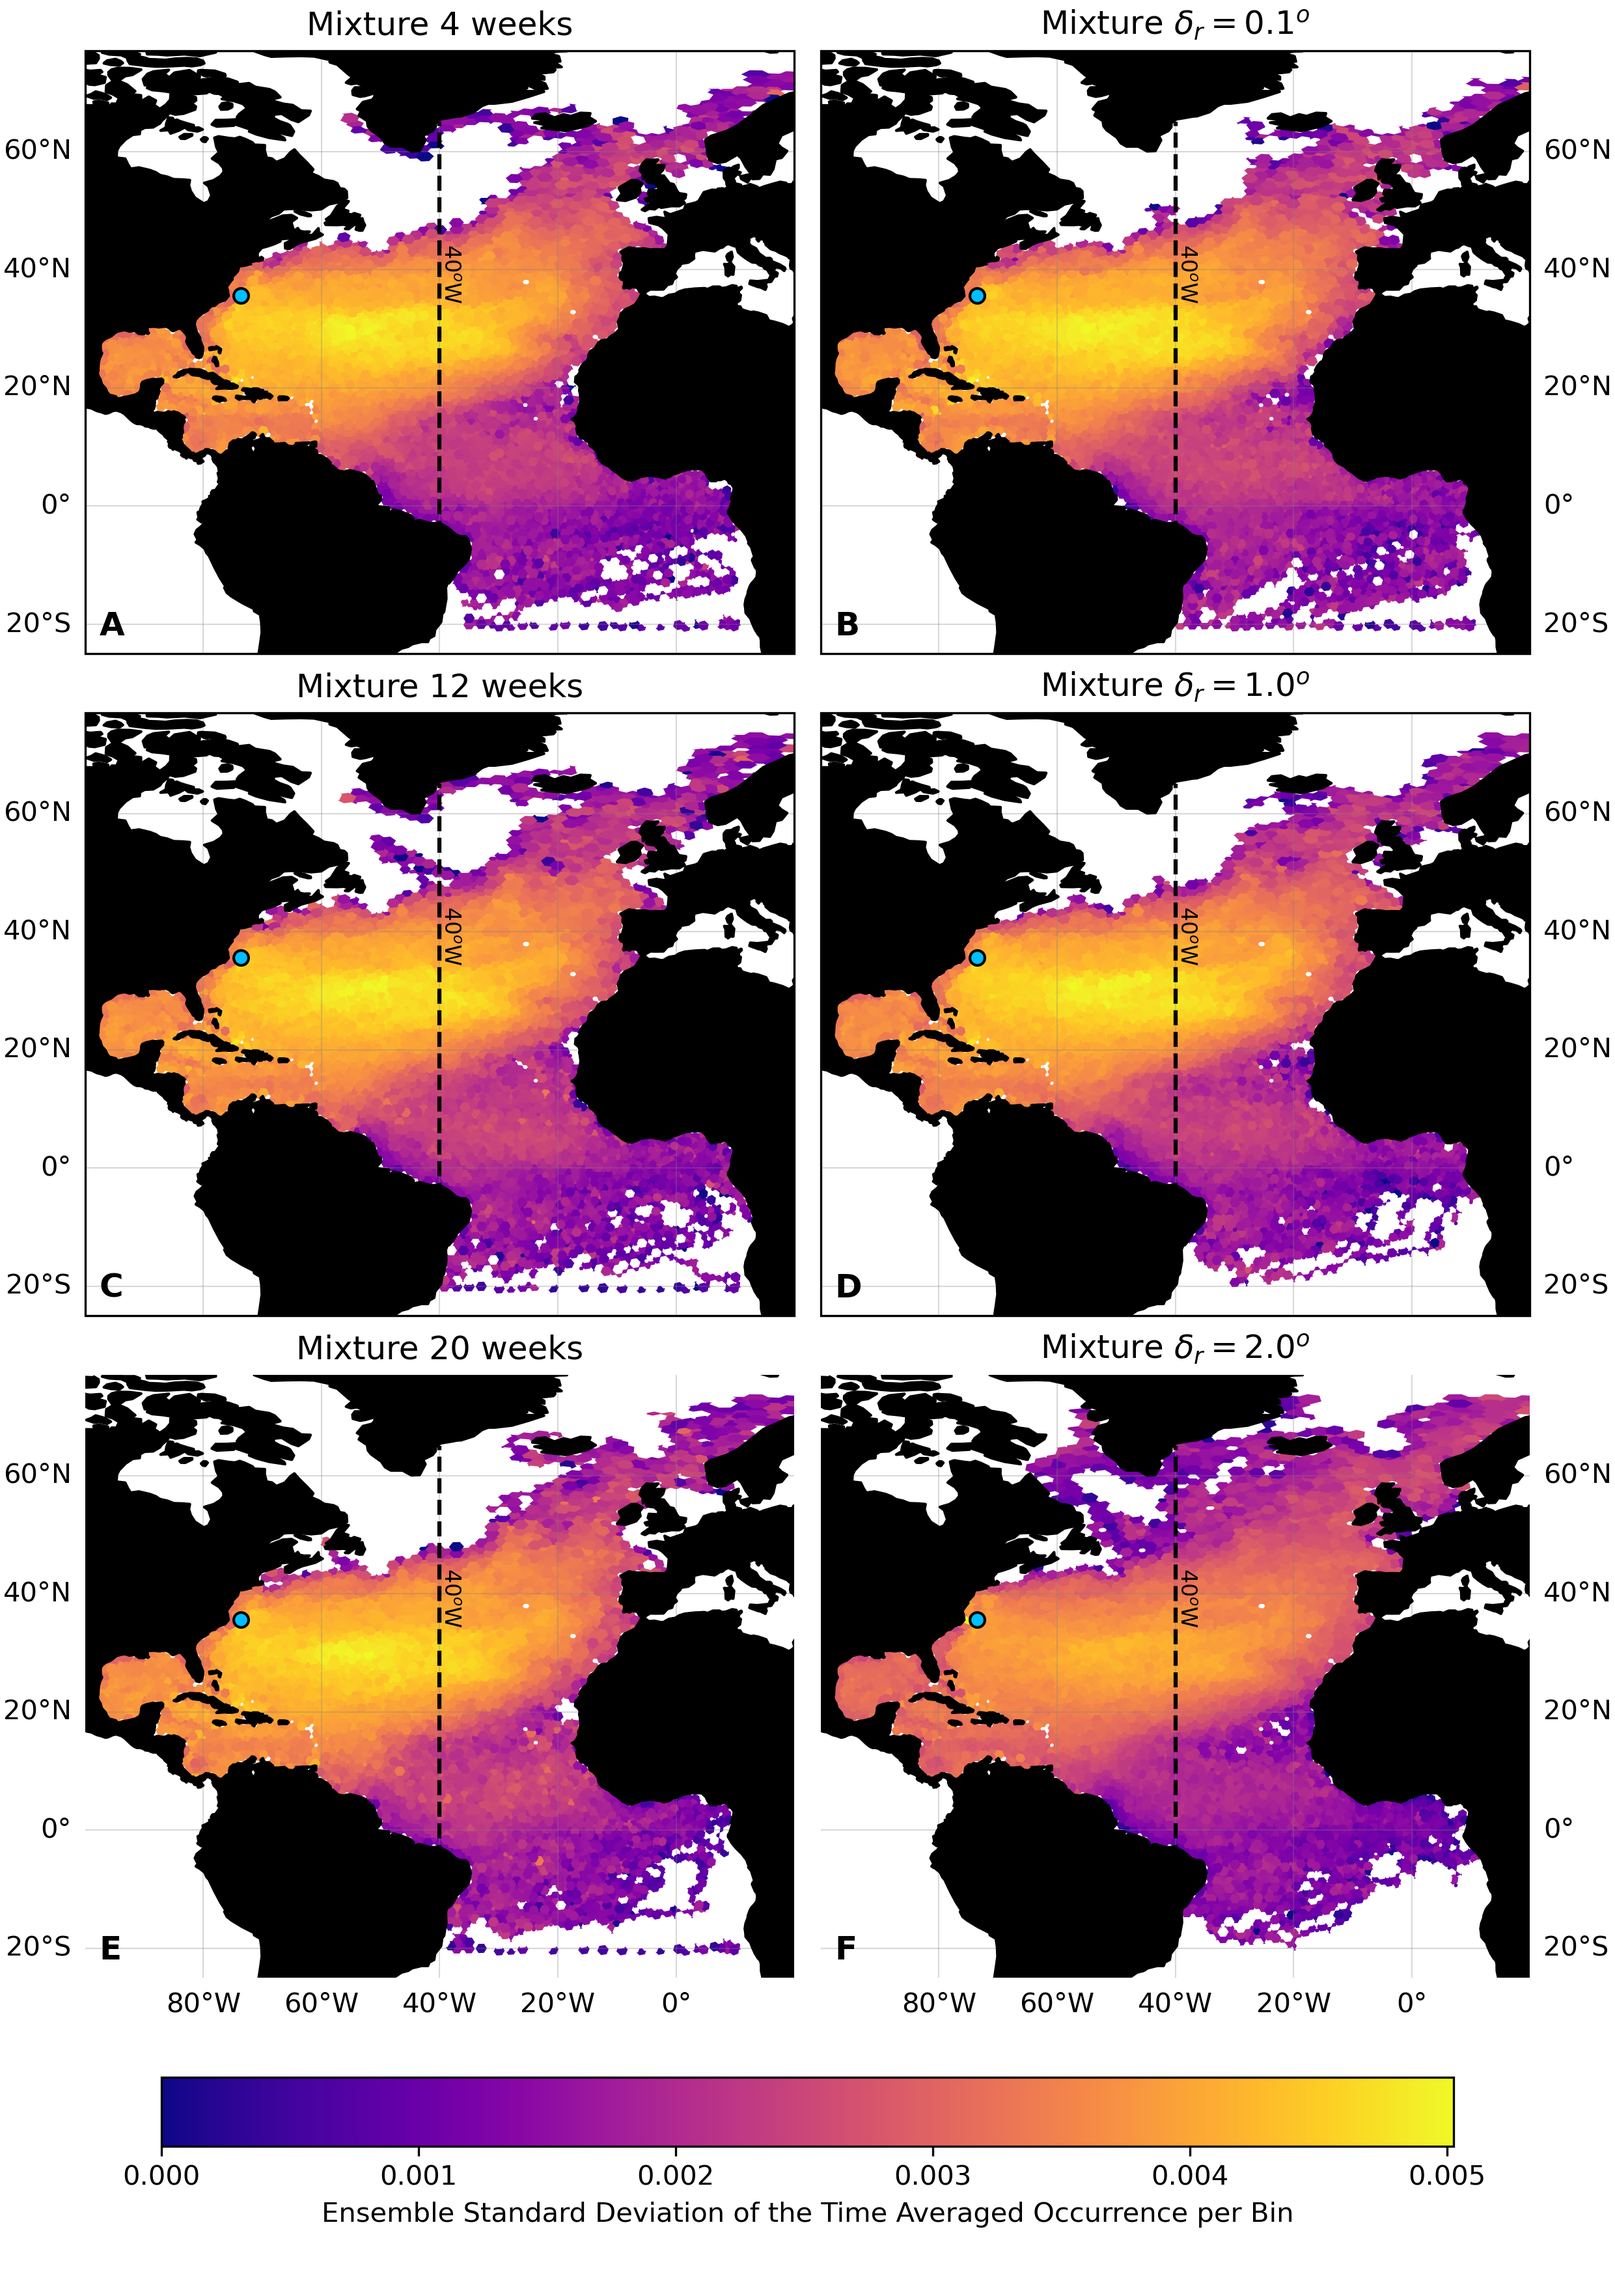
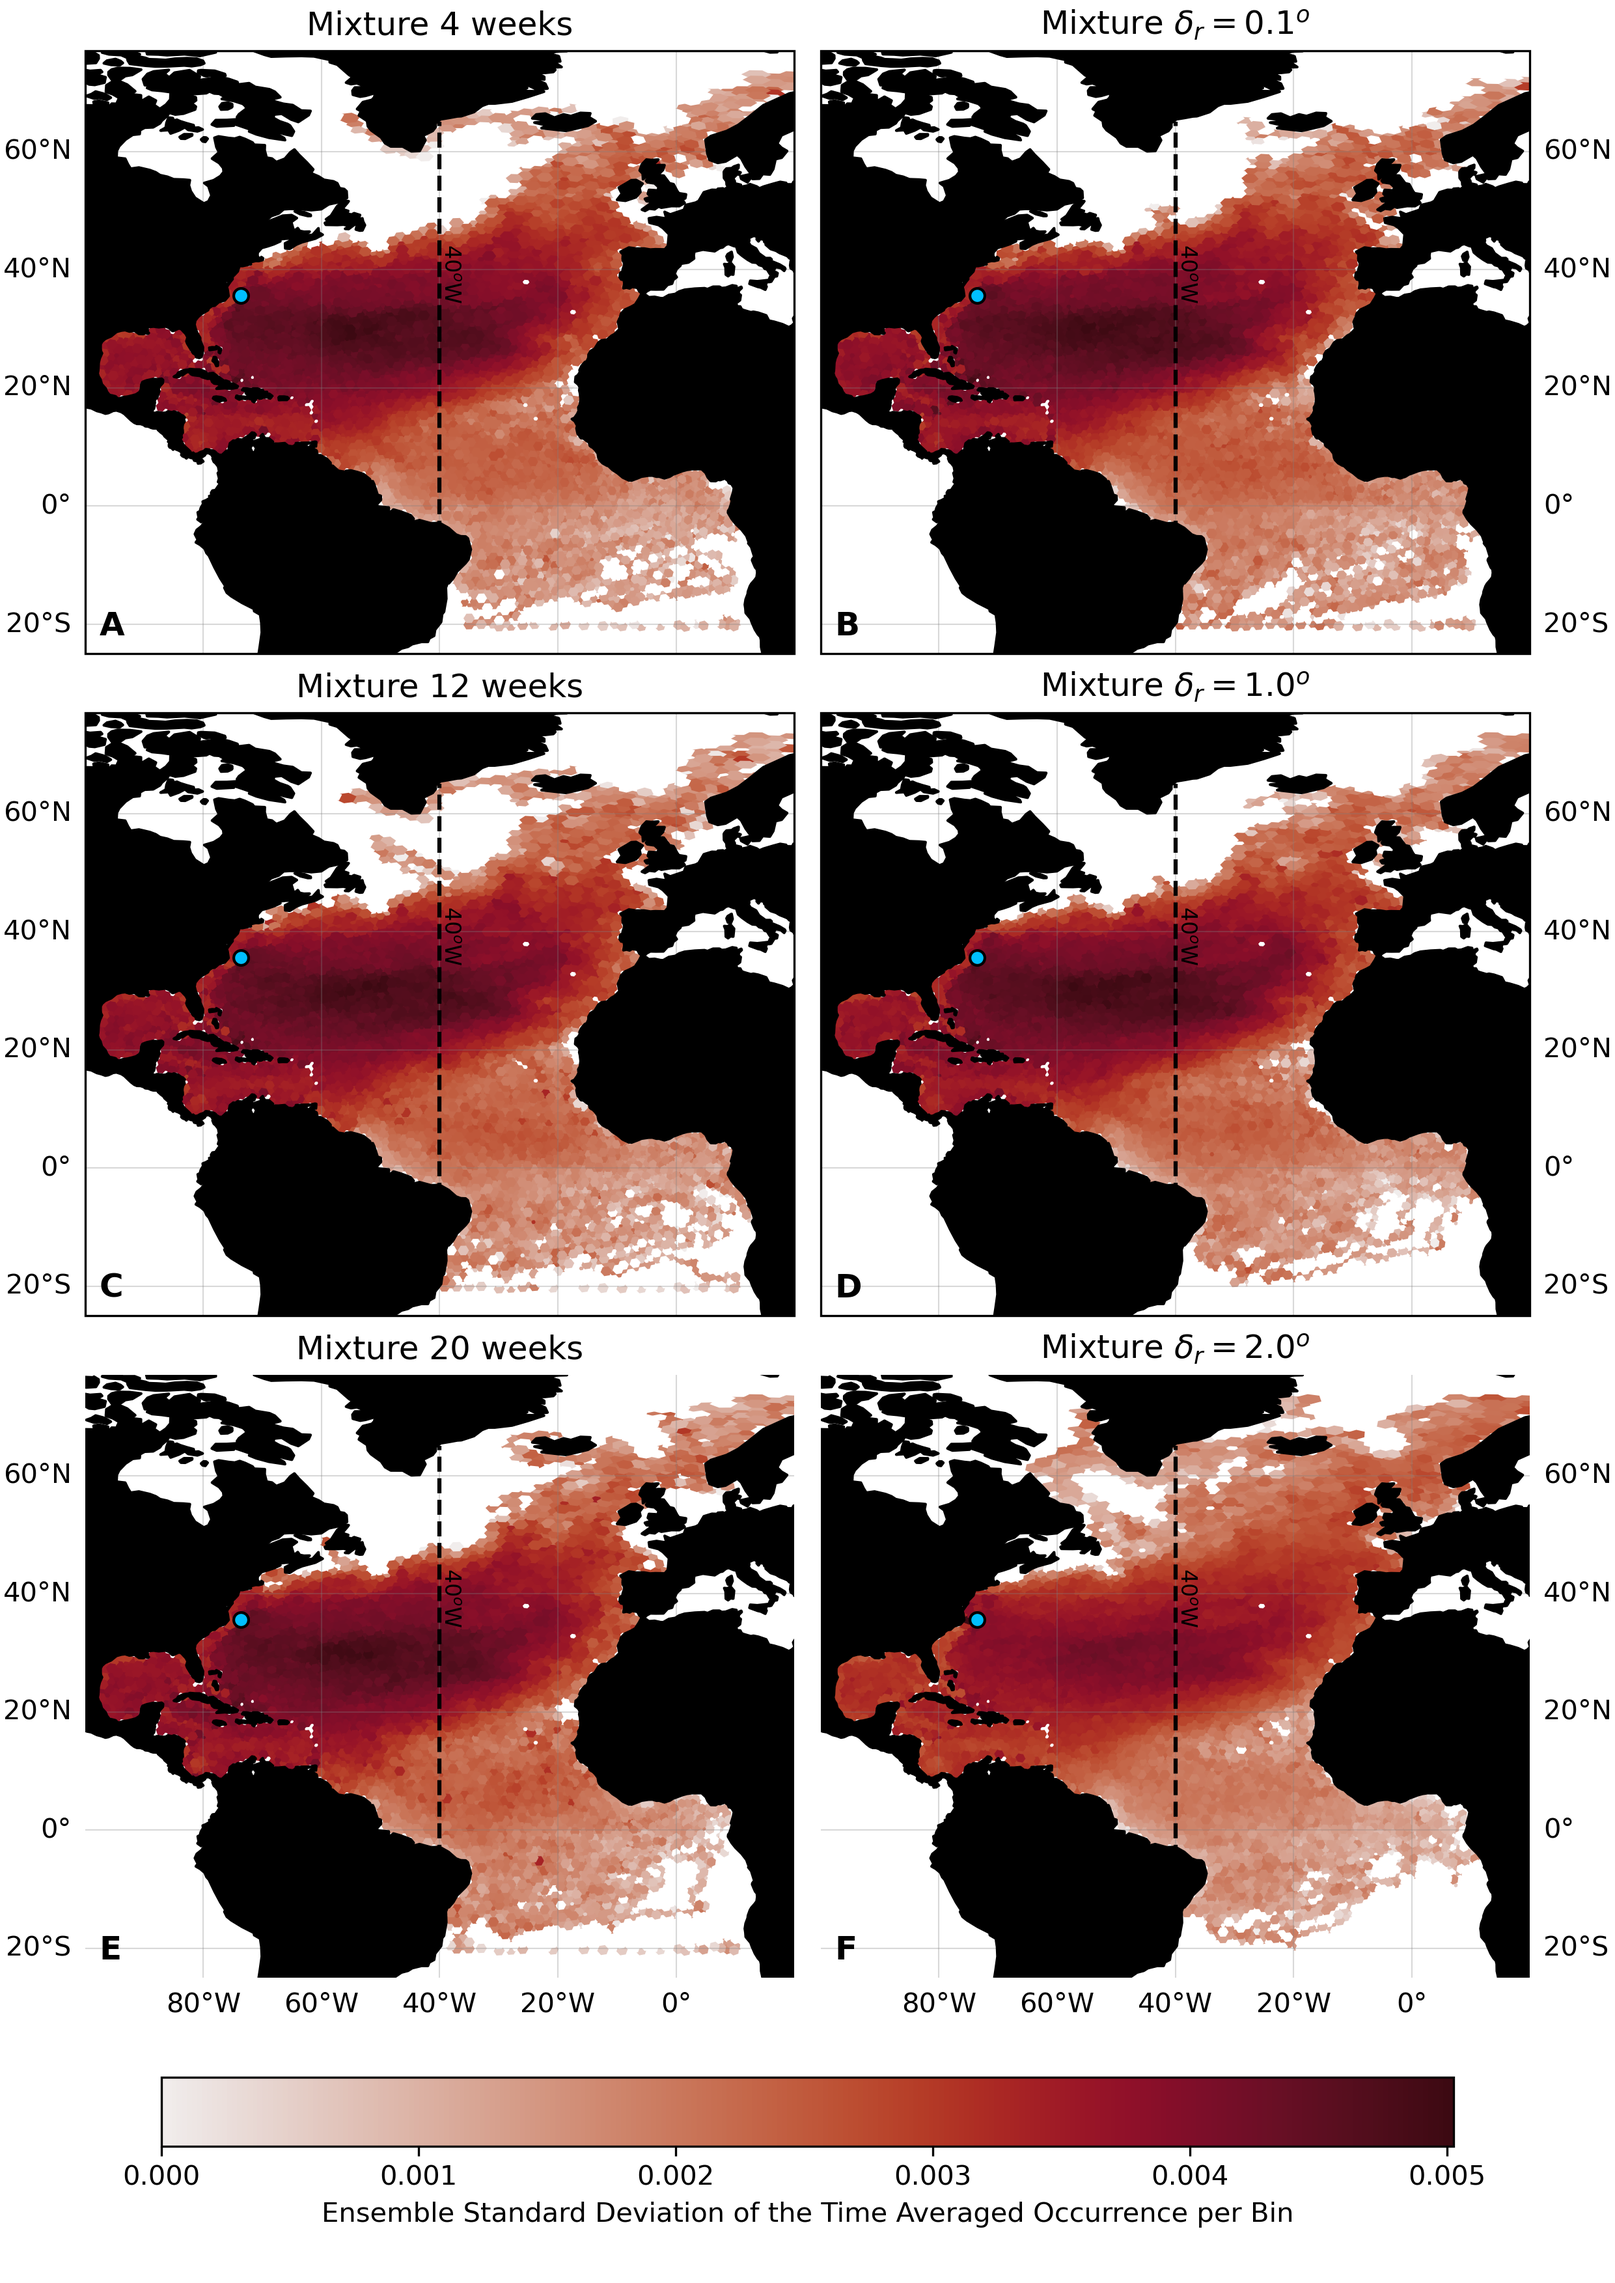
figs9

diff --git a/plot_scripts/figS3-4-STD_maps.py b/plot_scripts/figS3-4-STD_maps.py
@@ -5,6 +5,7 @@ import xarray as xr
 import cartopy
 from tqdm import tqdm
 # import pickle
+import cmocean.cm as cmo
 
 import sys
 sys.path.append('../functions')
@@ -141,14 +142,14 @@ for i in range(ncol*nrow - nrow, ncol*nrow):
 # Plot the maps
 i = 0
 for week in [4, 12, 20]:
-    hexbin_grid.pcolorhex(std_maps_temp[week], ax=axs[i], cmap='plasma', draw_edges=False, 
+    hexbin_grid.pcolorhex(std_maps_temp[week], ax=axs[i], cmap=cmo.amp, draw_edges=False, 
                                maxnorm=max_STD)
     axs[i].set_title(f'{week} weeks')
     i += 2
     
 i = 1
 for delta_r in [0.1, 1., 2.]:
-    im = hexbin_grid.pcolorhex(std_maps_space[delta_r], ax=axs[i], cmap='plasma', draw_edges=False, 
+    im = hexbin_grid.pcolorhex(std_maps_space[delta_r], ax=axs[i], cmap=cmo.amp, draw_edges=False, 
                                maxnorm=max_STD)
     axs[i].set_title(f'$\delta_r = {delta_r}^o$')
     i += 2
@@ -158,73 +159,6 @@ colorbar = fig.colorbar(im, cax=colorbar_axis, orientation='horizontal', label=f
 
 # save the plot
 plt.savefig(f'../figs/FigS3_Ensemble_STD.png', dpi=300)
-#%%%
-Latitude_limit = 53
-extent = [-85, -50, 20, 45]
-ncol = 2
-nrow = 4
-fig, axs = plt.subplots(ncols=ncol, nrows=nrow, figsize=(8.27, 11.69),
-                        subplot_kw={'projection': cartopy.crs.PlateCarree()},
-                        sharey=True, constrained_layout=True,
-                        gridspec_kw={'height_ratios': [1, 1, 1, 0.4]})
-
-axs = axs.reshape(ncol*nrow)
-
-# formatiiing
-
-for i in range(0, 6):
-    axs[i].set_extent(extent, crs=cartopy.crs.PlateCarree())
-    axs[i].add_feature(cartopy.feature.LAND, zorder=10, color='black')
-    axs[i].scatter(-73.6, 35.6, color="deepskyblue", edgecolor='black', s=30, 
-                   marker="o", label="Release Location", zorder=10)
-
-    axs[i].set_title(f'All Members Subset {i+1}')
-    
-    gl = axs[i].gridlines(crs=cartopy.crs.PlateCarree(), draw_labels=True,
-                         linewidth=0.5, color='gray', alpha=0.3)
-
-    if i in [1, 3, 5]:
-        gl.left_labels = False
-
-    if i < 4:
-        gl.bottom_labels = False
-
-    gl.top_labels = False
-    gl.right_labels = False
-
-    if i in [1, 3, 5]:
-        gl.right_labels = True
-
-    # Add labels like A, B, C, etc.
-    label = chr(65 + i)  # 65 is the ASCII value for 'A'
-    axs[i].text(0.02, 0.02, label, transform=axs[i].transAxes, fontsize=12, fontweight='bold', va='bottom', ha='left')
-        
-
-for i in range(ncol*nrow - nrow, ncol*nrow):
-    axs[i].axis('off')
-    
-# Plot the maps
-i = 0
-for week in [4, 20]:
-    hexbin_grid.pcolorhex(std_100days[week], ax=axs[i], cmap='plasma', draw_edges=False, 
-                               maxnorm=max_STD)
-    axs[i].set_title(f'{week} weeks')
-    i += 2
-    
-i = 1
-for delta_r in [0.1, 2.]:
-    im = hexbin_grid.pcolorhex(std_100days[delta_r], ax=axs[i], cmap='plasma', draw_edges=False, 
-                               maxnorm=max_STD)
-    axs[i].set_title(f'$\delta_r = {delta_r}^o$')
-    i += 2
-    
-colorbar_axis = fig.add_axes([0.1, 0.06, 0.8, 0.03])  # Adjust the height of the colorbar
-colorbar = fig.colorbar(im, cax=colorbar_axis, 
-                        orientation='horizontal',
-                        label=f'Ensemble Standard Deviation of the Time Averaged Occurrence per Bin')
-
-
-
 
 
 # %% ###############################################################
@@ -334,14 +268,14 @@ for i in range(ncol*nrow - nrow, ncol*nrow):
 # Plot the maps
 i = 1
 for delta_r in [0.1, 1., 2.]:
-    im = hexbin_grid.pcolorhex(std_maps_space_mix[delta_r], ax=axs[i], cmap='plasma', draw_edges=False, 
+    im = hexbin_grid.pcolorhex(std_maps_space_mix[delta_r], ax=axs[i], cmap=cmo.amp, draw_edges=False, 
                                maxnorm=max_STD)
     axs[i].set_title(f'Mixture $\delta_r = {delta_r}^o$')
     i += 2
     
 i = 0
 for week in [4, 12, 20]:
-    hexbin_grid.pcolorhex(std_maps_temp_mix[week], ax=axs[i], cmap='plasma', draw_edges=False, 
+    hexbin_grid.pcolorhex(std_maps_temp_mix[week], ax=axs[i], cmap=cmo.amp, draw_edges=False, 
                                maxnorm=max_STD)
     axs[i].set_title(f'Mixture {week} weeks')
     i += 2

diff --git a/plot_scripts/figS9-Probability_snapshot_maps.py b/plot_scripts/figS9-Probability_snapshot_maps.py
@@ -14,8 +14,8 @@ import deprecated_hexbin_functions as hexfunc
 # MIXTURE
 location = 'Cape_Hatteras'
 delta_r = 0.1
-subset = 10
-member = 46
+subset = 43
+member = 22
 
 # Define the file path for the NetCDF file containing probability distributions
 file_path = f"/storage/shared/oceanparcels/output_data/data_Claudio/NEMO_Ensemble/analysis/prob_distribution/{location}_all_long/P_dr{delta_r*100:03.0f}_all_s{subset:03d}.nc"
@@ -69,9 +69,9 @@ hexbin_grid.pcolorhex(all_ps[2.]['probability'][:, 10], ax=axs[6], cmap=colr_map
 hexbin_grid.pcolorhex(all_ps[2.]['probability'][:, 100], ax=axs[7], cmap=colr_mapa, draw_edges=False, maxnorm=0.1)
 hexbin_grid.pcolorhex(all_ps[2.]['probability'][:, 1000], ax=axs[8], cmap=colr_mapa, draw_edges=False, maxnorm=0.1)
 
-hexbin_grid.pcolorhex(all_ps[4]['probability'][:, 10], ax=axs[9], cmap=colr_mapa, draw_edges=False, maxnorm=0.1)
-hexbin_grid.pcolorhex(all_ps[4]['probability'][:, 100], ax=axs[10], cmap=colr_mapa, draw_edges=False, maxnorm=0.1)
-hexbin_grid.pcolorhex(all_ps[4]['probability'][:, 1000], ax=axs[11], cmap=colr_mapa, draw_edges=False, maxnorm=0.1)
+hexbin_grid.pcolorhex(all_ps[0.1]['probability'][:, 10], ax=axs[9], cmap=colr_mapa, draw_edges=False, maxnorm=0.1)
+hexbin_grid.pcolorhex(all_ps[0.1]['probability'][:, 100], ax=axs[10], cmap=colr_mapa, draw_edges=False, maxnorm=0.1)
+hexbin_grid.pcolorhex(all_ps[0.1]['probability'][:, 1000], ax=axs[11], cmap=colr_mapa, draw_edges=False, maxnorm=0.1)
 
 # formating
 
@@ -106,7 +106,7 @@ for i in range(0, ncol * nrow - ncol):
 axs[0].text(-0.01, 0.5, r'Mixture $\delta_r = 0.1^o$', transform=axs[0].transAxes, fontsize=12, fontweight='bold', va='center', ha='right', rotation='vertical')
 axs[3].text(-0.01, 0.5, '20 weeks', transform=axs[3].transAxes, fontsize=12, va='center', ha='right', rotation='vertical')
 axs[6].text(-0.01, 0.5, r'$\delta_r = 2.0^o$', transform=axs[6].transAxes, fontsize=12, va='center', ha='right', rotation='vertical')
-axs[9].text(-0.01, 0.5, '4 weeks', transform=axs[9].transAxes, fontsize=12, va='center', ha='right', rotation='vertical')
+axs[9].text(-0.01, 0.5, r'$\delta_r = 0.1^o$', transform=axs[9].transAxes, fontsize=12, va='center', ha='right', rotation='vertical')
 
 for i in range(12, 15):
     axs[i].axis('off')
